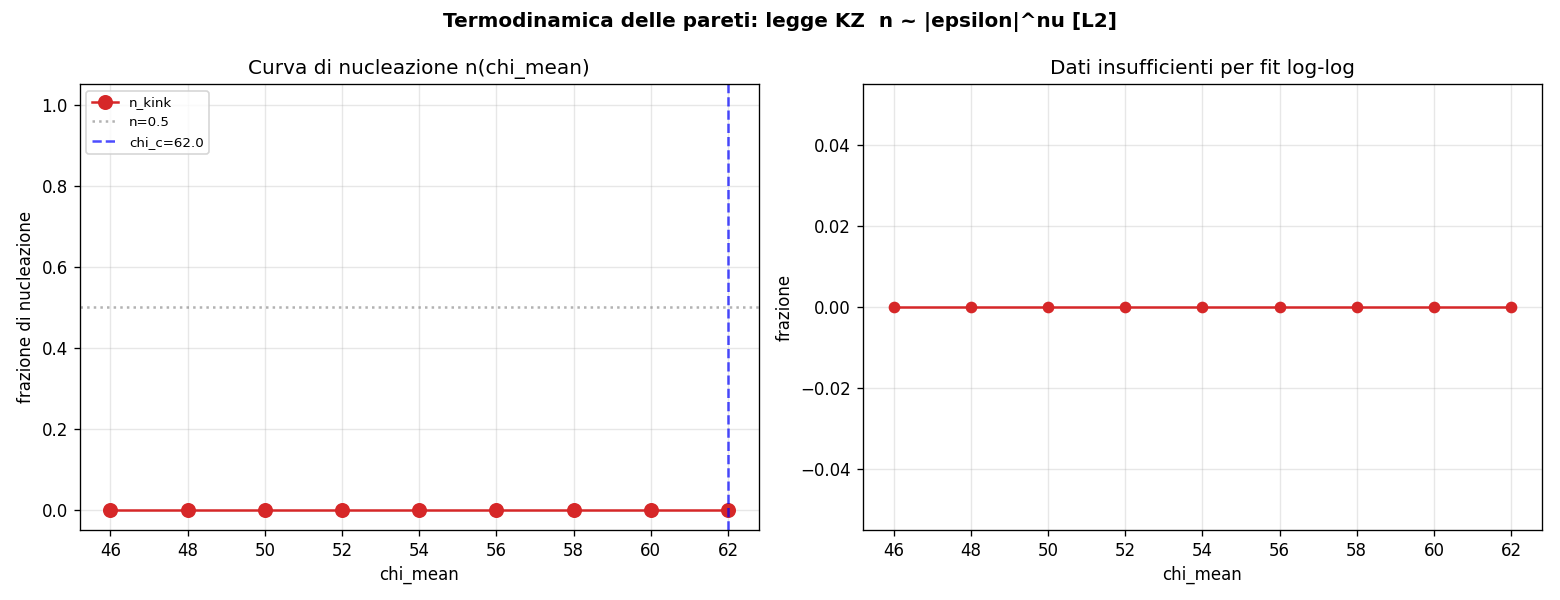
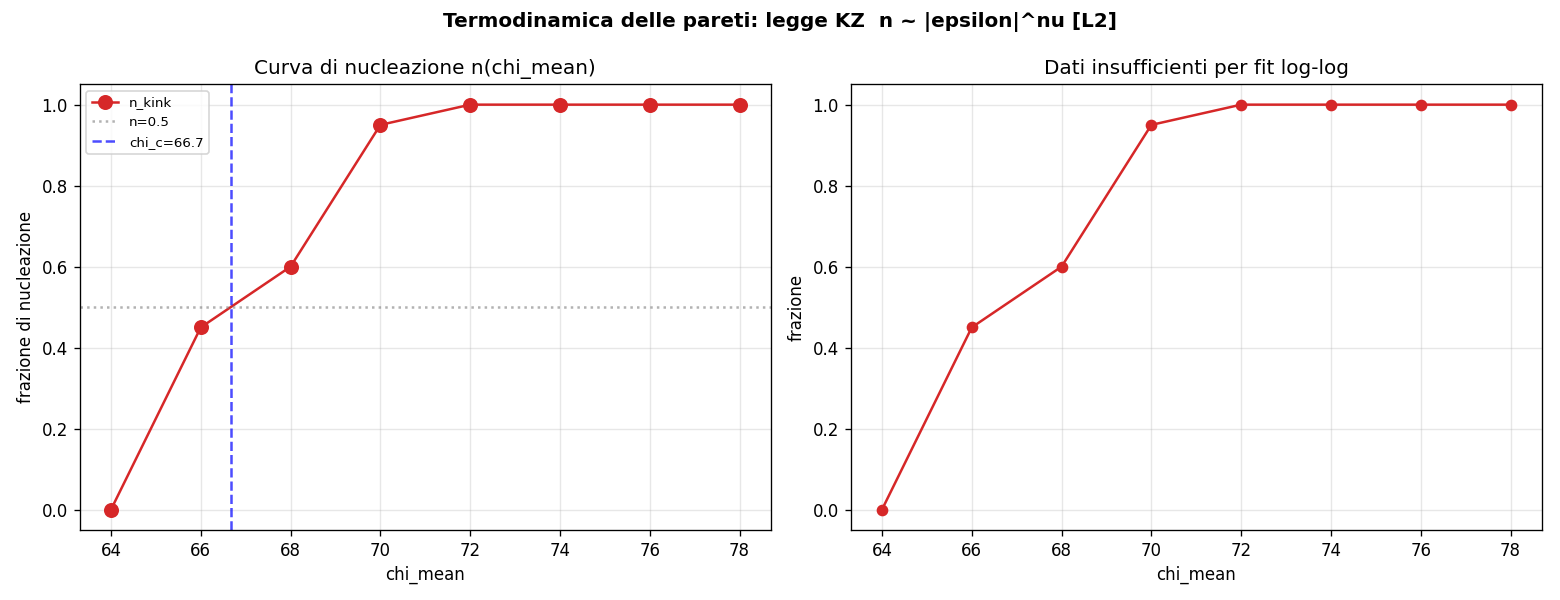
docs(checkpoint): appunto ripresa sessione - prossimo passo curva nucleazione L3 (data collapsing)

diff --git a/docs/peano/MIGRAZIONE_CHECKPOINT.md b/docs/peano/MIGRAZIONE_CHECKPOINT.md
@@ -1,4 +1,16 @@
-# Checkpoint VQT - Ultimo Aggiornamento: 2026-06-03
+# Checkpoint VQT - Ultimo Aggiornamento: 2026-06-04
+
+## >>> RIPRESA PROSSIMA SESSIONE <<<
+TASK A (L2) CHIUSO: chi_c/chi_stable=1.338, cooperativity=1 (vedi sez. ROADMAP 4b).
+PROSSIMO PASSO: V1/V2/V3 = stessa curva di nucleazione a L3 per il data collapsing.
+  - Strategia: sweep RADO L3 (campionamento intelligente) attorno al chi_c atteso.
+    Stima ingenua chi_c_L3 ~ stesso rapporto 1.338*chi_stable, MA va misurato.
+  - Comando base (frazionabile, ResumeManager crash-safe):
+    python experiments/exp3/test_termodinamica_kink.py --level 3 --seeds 10 \
+      --chi-means 64,68,72,76 --quench-steps 500   (sweep rado per trovare chi_c_L3)
+    poi analyze: python experiments/exp3/analyze_termodinamica.py --level 3
+  - COSTO: ~14 min/punto a L2 -> a L3 (24x nodi) ~stima ore/punto. Spalmare su sessioni.
+  - Promuovere a [OSS] SOLO con chi_c coerente su L2 E L3 (regola dei 2 livelli).
 
 ## >>> STATO ATTUALE (riorganizzato 2026-06-01, aggiornato 2026-06-03) <<<
 
